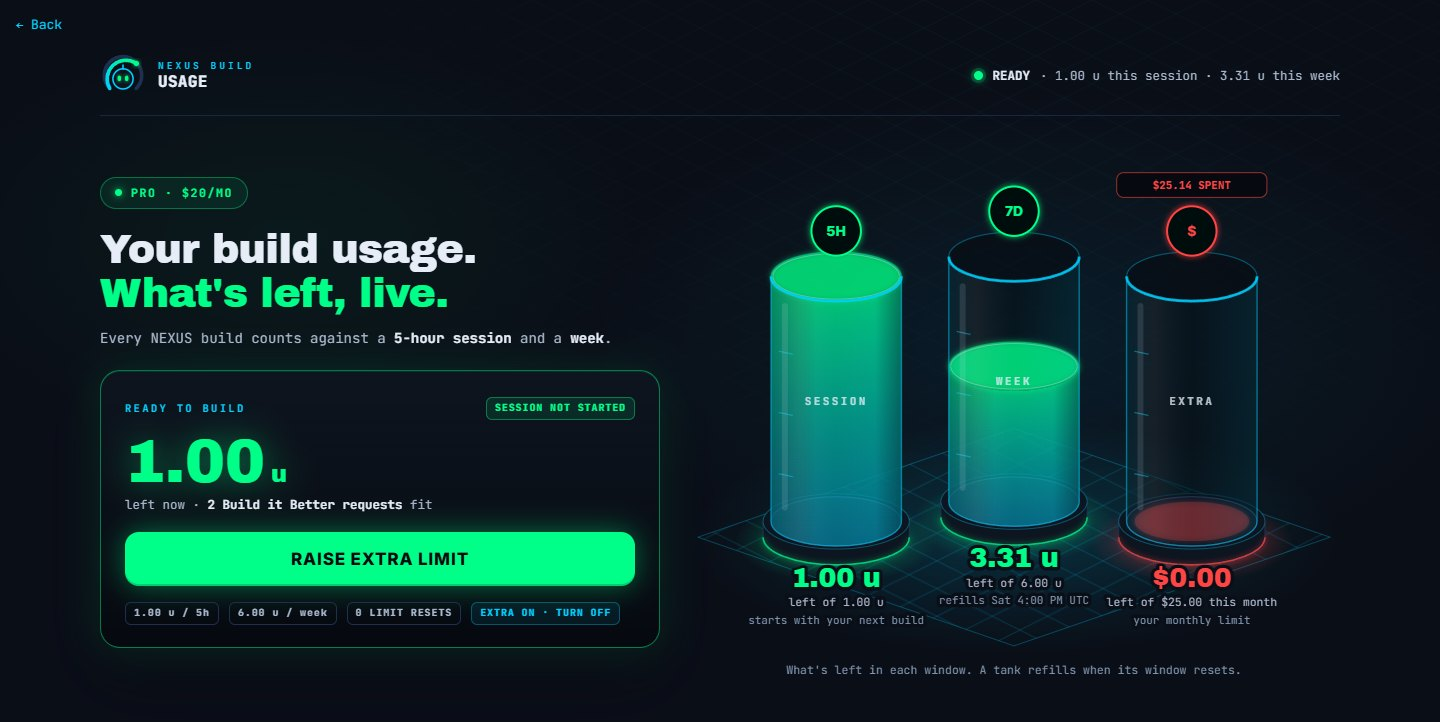
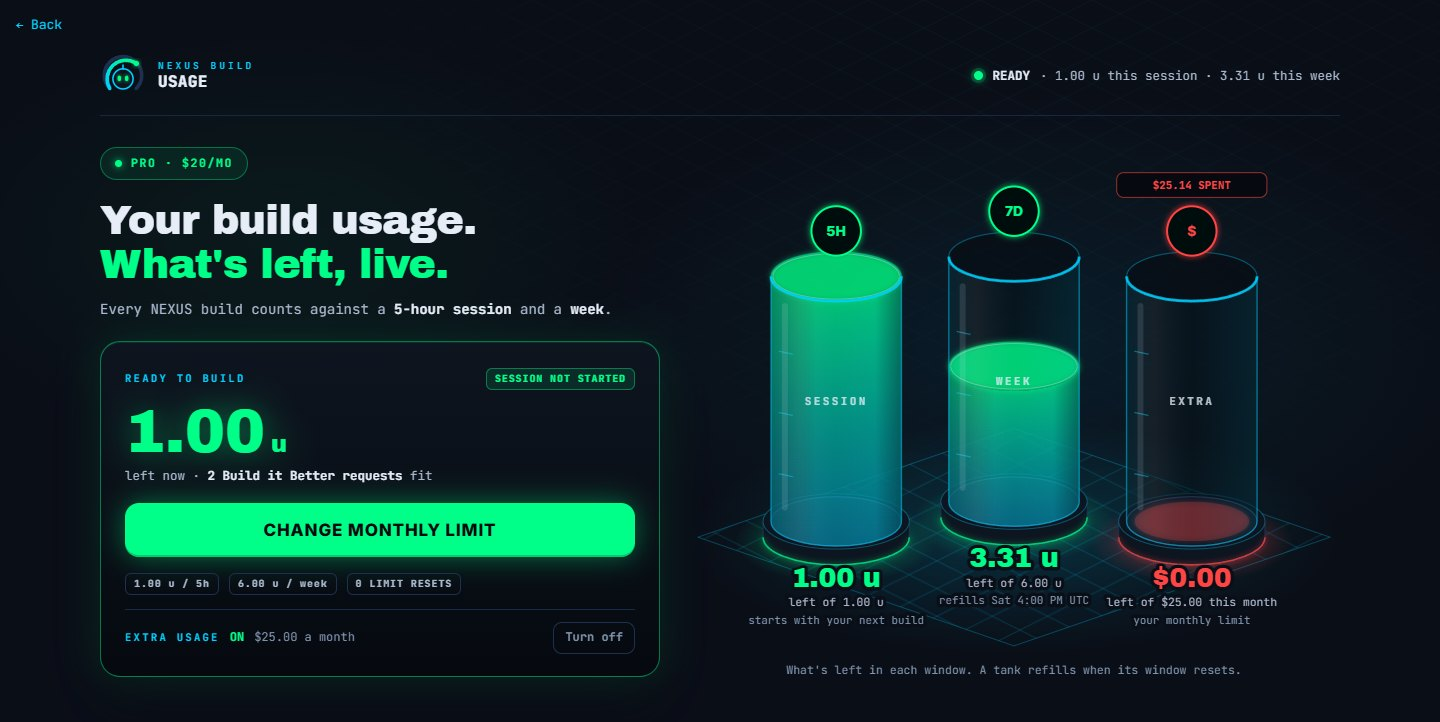
/usage mock takes in what Cymetica shipped on the live page on 2026-10-22 (checked in nexus-usage.js v20261022-2 and /usage/costs): Change monthly limit (the inline field, holding the current limit; the panel's button when the limit is reached, the extra-usage line's otherwise), the costs fold as /u
Effort: xhigh

Changed region(s): [[0.0625, 0.2133, 0.4688, 0.9141]]

diff --git a/outbox/usage-redesign/data.js b/outbox/usage-redesign/data.js
@@ -1,8 +1,11 @@
 /* What the pictures show, read 2026-10-22 from the live API -- nothing typed by hand.
    SNAP: GET /api/v1/nexus/usage (our account, X-API-Key), as_of below. DAY: the same with ?range=day (its breakdown only).
-   PUB: GET /api/v1/nexus/plans (public). DYN: GET /api/v1/nexus/dynamic (our account). COSTS: GET /api/v1/nexus/plans/costs. */
+   PUB: GET /api/v1/nexus/plans (public). DYN: GET /api/v1/nexus/dynamic (our account). COSTS: GET /api/v1/nexus/plans/costs (the same figures /usage/costs shows).
+   NOW: the fields /usage gained the same day (USDC balance; per plan the change and what it charges now),
+   from a second read of our account at its as_of. */
 window.SNAP = {"enabled":true,"plan":"pro","plan_name":"Pro","multiplier":"1","price_usdc":"20.00","session":{"active":true,"used_units":"2.185134","cap_units":"1.000000","used_pct":100,"started_at":"2026-10-22T02:51:54.892000+00:00","resets_at":"2026-10-22T07:51:54.892000+00:00","resets_in_s":7264,"resets_label":"7:51am UTC","hours":5},"week":{"used_units":"2.685134","cap_units":"6.000000","used_pct":45,"week_start":"2026-10-17T16:00:00+00:00","resets_at":"2026-10-24T16:00:00+00:00","resets_in_s":209349,"resets_label":"Sat 4:00pm UTC","anchor":{"dow":5,"minute":960}},"extra_usage":{"enabled":true,"month_spend_usdc":"25.14","monthly_cap_usdc":"25.00","markup":"3"},"limit_resets_available":0,"warn_pct":75,"critical_pct":90,"as_of":"2026-10-22T05:50:50.375932+00:00","breakdown":[{"kind":"company_turn","label":"Build a Company agent turns","units":"6.304075","pct":60},{"kind":"bb_request","label":"Build it Better requests","units":"4.000000","pct":38},{"kind":"bb_change","label":"Build it Better scope changes","units":"0.150000","pct":1},{"kind":"feature_bid","label":"Feature bids","units":"0.000000","pct":0}],"flags":[{"kind":"company_turn","label":"Build a Company agent turns","pct":60},{"kind":"bb_request","label":"Build it Better requests","pct":38}],"items":[{"kind":"company_turn","label":"Build a Company agent turns","units":"0.379142","at":"2026-10-22T03:03:52.294044+00:00","ref":"14:development:1792638134:d1008cc4b51c4cad","link":null,"overage":true},{"kind":"company_turn","label":"Build a Company agent turns","units":"1.060236","at":"2026-10-22T03:00:09.111490+00:00","ref":"14:testing:1792637800:6380bad10895404d","link":null,"overage":false},{"kind":"company_turn","label":"Build a Company agent turns","units":"0.596225","at":"2026-10-22T02:56:40.131665+00:00","ref":"14:testing:1792637672:06624a4767b44cd6","link":null,"overage":false},{"kind":"company_turn","label":"Build a Company agent turns","units":"0.149531","at":"2026-10-22T02:52:31.261827+00:00","ref":"14:manager:1792637514:7c60968585854f1b","link":null,"overage":false},{"kind":"bb_request","label":"Build it Better requests","units":"0.500000","at":"2026-10-21T22:01:11.224341+00:00","ref":"ET-32383","link":null,"overage":true},{"kind":"company_turn","label":"Build a Company agent turns","units":"0.147352","at":"2026-10-21T20:56:48.998060+00:00","ref":"14:manager:1792616184:a7b6b05c549a42b9","link":null,"overage":true},{"kind":"company_turn","label":"Build a Company agent turns","units":"0.769234","at":"2026-10-21T20:53:55.506584+00:00","ref":"14:testing:1792615838:fef14e5f3e9a479f","link":null,"overage":true},{"kind":"company_turn","label":"Build a Company agent turns","units":"0.156012","at":"2026-10-21T20:50:25.586057+00:00","ref":"14:manager:1792615789:20cd74f24d864bd6","link":null,"overage":true},{"kind":"company_turn","label":"Build a Company agent turns","units":"0.164502","at":"2026-10-21T20:48:55.900212+00:00","ref":"14:manager:1792615711:2d18c1f4d23b43d1","link":null,"overage":true},{"kind":"company_turn","label":"Build a Company agent turns","units":"0.423598","at":"2026-10-21T20:48:36.075910+00:00","ref":"14:testing:1792615620:217e6b83a68b43fc","link":null,"overage":true},{"kind":"company_turn","label":"Build a Company agent turns","units":"0.160003","at":"2026-10-21T20:45:15.826077+00:00","ref":"14:manager:1792615495:3b7773da86214a9d","link":null,"overage":true},{"kind":"company_turn","label":"Build a Company agent turns","units":"0.131782","at":"2026-10-21T20:43:29.201369+00:00","ref":"14:manager:1792615395:3ae917c4038f4f34","link":null,"overage":true},{"kind":"company_turn","label":"Build a Company agent turns","units":"0.474479","at":"2026-10-21T20:40:55.307797+00:00","ref":"14:testing_lab:1792615107:ce21dfc301a54511","link":null,"overage":true},{"kind":"company_turn","label":"Build a Company agent turns","units":"0.160457","at":"2026-10-21T20:40:54.142738+00:00","ref":"14:manager:1792615216:9edc6b951b844661","link":null,"overage":true},{"kind":"company_turn","label":"Build a Company agent turns","units":"0.132817","at":"2026-10-21T20:37:10.502444+00:00","ref":"14:manager:1792615016:37ce42ff71784380","link":null,"overage":true},{"kind":"company_turn","label":"Build a Company agent turns","units":"0.481207","at":"2026-10-21T20:35:56.214881+00:00","ref":"14:trading_desk:1792614812:3ad8527854f6427d","link":null,"overage":false},{"kind":"company_turn","label":"Build a Company agent turns","units":"0.180495","at":"2026-10-21T20:35:36.170831+00:00","ref":"14:manager:1792614904:82efb9fa4e284e57","link":null,"overage":false},{"kind":"company_turn","label":"Build a Company agent turns","units":"0.141542","at":"2026-10-21T20:33:29.684683+00:00","ref":"14:manager:1792614786:e604e1f5c0d74cc7","link":null,"overage":false},{"kind":"company_turn","label":"Build a Company agent turns","units":"0.137507","at":"2026-10-21T20:32:10.451989+00:00","ref":"14:manager:1792614709:56eca5cf064c4ded","link":null,"overage":false},{"kind":"company_turn","label":"Build a Company agent turns","units":"0.178693","at":"2026-10-21T18:55:33.978915+00:00","ref":"14:testing_lab:1792608797:f5294ecaa0664241","link":null,"overage":false},{"kind":"bb_request","label":"Build it Better requests","units":"0.500000","at":"2026-10-21T15:04:23.013663+00:00","ref":"ET-32333","link":null,"overage":false},{"kind":"bb_request","label":"Build it Better requests","units":"0.500000","at":"2026-10-21T12:01:47.699789+00:00","ref":"ET-32311","link":null,"overage":true},{"kind":"bb_change","label":"Build it Better scope changes","units":"0.150000","at":"2026-10-21T08:08:39.222792+00:00","ref":"ET-32262:20261021080839205587","link":null,"overage":false},{"kind":"bb_request","label":"Build it Better requests","units":"0.500000","at":"2026-10-21T08:07:02.591432+00:00","ref":"ET-32262","link":null,"overage":false},{"kind":"bb_request","label":"Build it Better requests","units":"0.500000","at":"2026-10-18T15:27:26.595055+00:00","ref":"ET-31953","link":null,"overage":false}],"history":[{"day":"2026-10-16","units":"0.500000"},{"day":"2026-10-17","units":"0.500000"},{"day":"2026-10-18","units":"1.000000"},{"day":"2026-10-19","units":"0.000000"},{"day":"2026-10-20","units":"0.000000"},{"day":"2026-10-21","units":"5.989680"},{"day":"2026-10-22","units":"2.185134"}],"plans":[{"code":"free","name":"Free","price_usdc":"0.00","multiplier":"0.2","session_units":"0.200000","week_units":"1.200000","session_hours":5,"features":["NEXUS builds within a small allowance every 5 hours and every week","Needs a paid plan (larger than the Free allowance): Build it Better requests, feature requests, startup applications","Tuatara Decide: 1 trained classifier, about 400,000 decisions a week"],"et10_offer":null},{"code":"pro","name":"Pro","price_usdc":"20.00","multiplier":"1","session_units":"1.000000","week_units":"6.000000","session_hours":5,"features":["Limited time: 2,000 ET10 with every monthly payment made by Oct 27, 2026","The Pro build allowance per 5-hour session and per week","Tuatara Decide: 3 trained classifiers, about 2,000,000 decisions a week","Extra usage: keep building past the limit at pay-as-you-go rates (opt-in, capped by you)","One saveable limit reset every week","Auto-renews monthly from your USDC balance; cancel anytime"],"et10_offer":{"et10_per_month":2000,"starts":"2026-09-27T00:00:00+00:00","ends":"2026-10-28T00:00:00+00:00","ends_label":"Oct 27, 2026"}},{"code":"max5","name":"Max 5x","price_usdc":"100.00","multiplier":"5","session_units":"5.000000","week_units":"30.000000","session_hours":5,"features":["Limited time: 10,000 ET10 with every monthly payment made by Oct 27, 2026","5x the Pro build allowance per 5-hour session and per week","Tuatara Decide: 15 trained classifiers, about 10,000,000 decisions a week","Extra usage: keep building past the limit at pay-as-you-go rates (opt-in, capped by you)","One saveable limit reset every week","Auto-renews monthly from your USDC balance; cancel anytime"],"et10_offer":{"et10_per_month":10000,"starts":"2026-09-27T00:00:00+00:00","ends":"2026-10-28T00:00:00+00:00","ends_label":"Oct 27, 2026"}},{"code":"max20","name":"Max 20x","price_usdc":"200.00","multiplier":"20","session_units":"20.000000","week_units":"120.000000","session_hours":5,"features":["Limited time: 20,000 ET10 with every monthly payment made by Oct 27, 2026","20x the Pro build allowance per 5-hour session and per week","Tuatara Decide: 60 trained classifiers, about 40,000,000 decisions a week","Extra usage: keep building past the limit at pay-as-you-go rates (opt-in, capped by you)","One saveable limit reset every week","Auto-renews monthly from your USDC balance; cancel anytime"],"et10_offer":{"et10_per_month":20000,"starts":"2026-09-27T00:00:00+00:00","ends":"2026-10-28T00:00:00+00:00","ends_label":"Oct 27, 2026"}}],"deep_answers":{"scope":"per_requester","hourly_limit":10,"used_this_hour":0,"remaining":10,"resets_in_s":550,"counted":"once per question (queued waits and retries are free)"}};
 window.DAY = {"as_of":"2026-10-22T05:51:43.876302+00:00","breakdown":[{"kind":"company_turn","label":"Build a Company agent turns","units":"6.024814","pct":74},{"kind":"bb_request","label":"Build it Better requests","units":"2.000000","pct":24},{"kind":"bb_change","label":"Build it Better scope changes","units":"0.150000","pct":2}]};
 window.PUB = {"enabled":true,"plans":[{"code":"free","name":"Free","price_usdc":"0.00","multiplier":"0.2","session_units":"0.200000","week_units":"1.200000","session_hours":5,"features":["NEXUS builds within a small allowance every 5 hours and every week","Needs a paid plan (larger than the Free allowance): Build it Better requests, feature requests, startup applications","Tuatara Decide: 1 trained classifier, about 400,000 decisions a week"],"et10_offer":null},{"code":"pro","name":"Pro","price_usdc":"20.00","multiplier":"1","session_units":"1.000000","week_units":"6.000000","session_hours":5,"features":["Limited time: 2,000 ET10 with every monthly payment made by Oct 27, 2026","The Pro build allowance per 5-hour session and per week","Tuatara Decide: 3 trained classifiers, about 2,000,000 decisions a week","Extra usage: keep building past the limit at pay-as-you-go rates (opt-in, capped by you)","One saveable limit reset every week","Auto-renews monthly from your USDC balance; cancel anytime"],"et10_offer":{"et10_per_month":2000,"starts":"2026-09-27T00:00:00+00:00","ends":"2026-10-28T00:00:00+00:00","ends_label":"Oct 27, 2026"}},{"code":"max5","name":"Max 5x","price_usdc":"100.00","multiplier":"5","session_units":"5.000000","week_units":"30.000000","session_hours":5,"features":["Limited time: 10,000 ET10 with every monthly payment made by Oct 27, 2026","5x the Pro build allowance per 5-hour session and per week","Tuatara Decide: 15 trained classifiers, about 10,000,000 decisions a week","Extra usage: keep building past the limit at pay-as-you-go rates (opt-in, capped by you)","One saveable limit reset every week","Auto-renews monthly from your USDC balance; cancel anytime"],"et10_offer":{"et10_per_month":10000,"starts":"2026-09-27T00:00:00+00:00","ends":"2026-10-28T00:00:00+00:00","ends_label":"Oct 27, 2026"}},{"code":"max20","name":"Max 20x","price_usdc":"200.00","multiplier":"20","session_units":"20.000000","week_units":"120.000000","session_hours":5,"features":["Limited time: 20,000 ET10 with every monthly payment made by Oct 27, 2026","20x the Pro build allowance per 5-hour session and per week","Tuatara Decide: 60 trained classifiers, about 40,000,000 decisions a week","Extra usage: keep building past the limit at pay-as-you-go rates (opt-in, capped by you)","One saveable limit reset every week","Auto-renews monthly from your USDC balance; cancel anytime"],"et10_offer":{"et10_per_month":20000,"starts":"2026-09-27T00:00:00+00:00","ends":"2026-10-28T00:00:00+00:00","ends_label":"Oct 27, 2026"}}],"session_hours":5,"week_days":7,"filing_costs":[{"kind":"bb_request","label":"Build it Better requests","units":"0.5","charged":"fixed, when the filing is accepted","fits_session":{"free":false,"pro":true,"max5":true,"max20":true}},{"kind":"bb_change","label":"Build it Better scope changes","units":"0.15","charged":"fixed, when the filing is accepted","fits_session":{"free":true,"pro":true,"max5":true,"max20":true}},{"kind":"feature_request","label":"Feature requests","units":"0.25","charged":"fixed, when the filing is accepted","fits_session":{"free":false,"pro":true,"max5":true,"max20":true}},{"kind":"feature_bid","label":"Feature bids","units":"0","charged":"fixed, when the filing is accepted","fits_session":{"free":true,"pro":true,"max5":true,"max20":true}},{"kind":"startup","label":"Startup applications","units":"0.5","charged":"fixed, when the filing is accepted","fits_session":{"free":false,"pro":true,"max5":true,"max20":true}},{"kind":"startup_bid","label":"Startup bids","units":"0","charged":"fixed, when the filing is accepted","fits_session":{"free":true,"pro":true,"max5":true,"max20":true}},{"kind":"creator_artifact","label":"Creator pages","units":"0.1","charged":"fixed, when the filing is accepted","fits_session":{"free":true,"pro":true,"max5":true,"max20":true}},{"kind":"clone_bot","label":"Bot clones","units":"0.1","charged":"fixed, when the filing is accepted","fits_session":{"free":true,"pro":true,"max5":true,"max20":true}},{"kind":"nexus_build_turn","label":"NEXUS build conversations","units":"0.05","charged":"measured compute (this is the estimate reserved before a turn)","fits_session":{"free":true,"pro":true,"max5":true,"max20":true}},{"kind":"company_turn","label":"Build a Company agent turns","units":"0.05","charged":"measured compute (this is the estimate reserved before a turn)","fits_session":{"free":true,"pro":true,"max5":true,"max20":true}}],"dynamic":{"code":"dynamic","name":"Dynamic","available":true,"price_usdc":null,"pricing":"measured cost + fee","fee_pct":"0.05","rails":["usdc","brrr","buy_brrr"],"min_brrr_buy_usd":"0.01","features":["Pay the measured compute cost of what you build and run, nothing more","Plus a 0.05% transaction fee","Prepaid credit sized from your own usage every 30 days; unused credit never expires","No 5-hour or weekly limits; set your own monthly spending limit","Pay in USDC, in BRRR, or buy BRRR with your USDC (5% off when you pay in BRRR)"]},"limit_rule":"A filing is accepted when its cost fits in what is left of BOTH the session and the weekly allowance. Otherwise it is refused with 429 USAGE_LIMIT (nothing charged) and resets_at says when the window reopens; a paid plan with extra usage on is charged for the overage instead, as long as that charge fits under your monthly extra-usage limit and your own USDC balance; otherwise the refusal names the limit that stopped it."};
 window.DYN = {"plan":{"code":"dynamic","name":"Dynamic","available":true,"price_usdc":null,"pricing":"measured cost + fee","fee_pct":"0.05","rails":["usdc","brrr","buy_brrr"],"min_brrr_buy_usd":"0.01","features":["Pay the measured compute cost of what you build and run, nothing more","Plus a 0.05% transaction fee","Prepaid credit sized from your own usage every 30 days; unused credit never expires","No 5-hour or weekly limits; set your own monthly spending limit","Pay in USDC, in BRRR, or buy BRRR with your USDC (5% off when you pay in BRRR)"]},"subscription":null,"forecast":{"cost_usd":"135.83","with_fee_usd":"135.90","basis":"your build usage over the last 30 days at measured cost"}};
 window.COSTS = {"window_days":30,"computed_at":"2026-10-22T04:40:00.790406+00:00","items":[{"kind":"company_turn","label":"Build a Company agent turn","runs":95,"mean_usd":"0.2750","p50_usd":"0.1876","p90_usd":"0.5254"},{"kind":"bb_build","label":"Build it Better build","runs":13,"mean_usd":"5.6500","p50_usd":"4.1487","p90_usd":"8.7840"},{"kind":"creator_page","label":"Creator page reply","runs":519,"mean_usd":"0.1785","p50_usd":"0.1337","p90_usd":"0.4247"},{"kind":"nexus_chat","label":"NEXUS chat answer","runs":8506,"mean_usd":"0.6728","p50_usd":"0.8282","p90_usd":"1.3874"}]};
+window.NOW = {"as_of":"2026-10-22T17:31:44.398409+00:00","usdc_balance":"60.26","period_end":"2026-10-26T16:38:49.363176+00:00","plans":[{"code":"free","change":"free","charge_now_usdc":"0.00","short_usdc":null},{"code":"pro","change":"current","charge_now_usdc":"0.00","short_usdc":"0.00"},{"code":"max5","change":"upgrade","charge_now_usdc":"10.67","short_usdc":"0.00"},{"code":"max20","change":"upgrade","charge_now_usdc":"24.00","short_usdc":"0.00"}]};

diff --git a/outbox/usage-redesign/mock.html b/outbox/usage-redesign/mock.html
@@ -199,12 +199,25 @@ h2{font:28px/1.2 "Archivo Black",sans-serif}
 .ct.h{color:var(--dim);font-size:10px;font-weight:700;letter-spacing:.16em}
 .ct span:not(:first-child){text-align:right}
 .ctw{margin-bottom:16px}
+.how .ctn{margin:10px 0 0;color:var(--dim);font-size:11.5px}
 
 .signin{padding:26px 24px 22px;margin-top:22px}
 .signin .go{width:100%;padding:17px;font-size:17px;margin-top:18px}
 .signin .free{display:flex;flex-wrap:wrap;gap:10px;margin-top:16px}
 .signin .edit{margin-top:12px}
 .signin .top{display:flex;justify-content:space-between;align-items:center;gap:12px}
+.xline{display:flex;align-items:center;gap:10px;margin-top:14px;padding-top:12px;border-top:1px solid rgba(30,48,80,.8);font-size:12px;color:var(--dim)}
+.xline b{color:var(--green);font-size:12px}
+.xline b.off{color:var(--dim)}
+.xline i{flex:1}
+.xline button{color:var(--cyan);font-size:12px;font-weight:700;border:1px solid rgba(0,207,255,.45);border-radius:9px;padding:6px 11px}
+.xline button.q{border-color:var(--line);color:var(--dim)}
+.bal{color:var(--dim);font-size:10.5px;font-weight:700;letter-spacing:.18em;border:1px solid rgba(30,48,80,.95);border-radius:12px;padding:9px 14px;background:rgba(13,21,32,.8)}
+.bal b{color:var(--green);font:18px "Archivo Black",sans-serif;letter-spacing:0;margin-left:8px}
+.pc .nw{color:var(--muted);font-size:11.5px;margin-top:6px;min-height:17px}
+.pc .nw b{color:var(--text)}
+.pc .nw em{font-style:normal;color:var(--red);font-weight:700}
+.pc .nw a{color:var(--cyan)}
 
 .ribbon{position:fixed;right:calc(16px + env(safe-area-inset-right,0px));top:calc(6px + env(safe-area-inset-top,0px));z-index:40;background:var(--panel);border:1px solid var(--line);border-radius:10px;padding:5px 10px;font-size:11.5px;color:var(--muted);display:flex;gap:8px;align-items:center}
 .ribbon b{color:var(--cyan);letter-spacing:.12em;font-size:10.5px}
@@ -374,7 +387,7 @@ function drawLeft(m) {
   }
   const go = resets > 0 ? `<button class="go" id="usereset">USE A LIMIT RESET</button>`
     : !m.xOn ? `<button class="go">TURN ON EXTRA USAGE</button>`
-    : xCapped ? `<button class="go" id="raise">RAISE EXTRA LIMIT</button>`
+    : xCapped ? `<button class="go" id="raise">CHANGE MONTHLY LIMIT</button>`
     : nextPlan ? `<button class="go">UPGRADE TO ${nextPlan.name.toUpperCase()}</button>` : "";
   el.innerHTML = `<div class="pills"><span class="pill"><i></i>${(S.plan_name || S.plan).toUpperCase()} &middot; ${usd0(S.price_usdc)}/MO</span></div>
     <h1>Your build usage.<br><em>What's left, live.</em></h1>
@@ -382,9 +395,13 @@ function drawLeft(m) {
     <div class="glass ${m.blocked ? "glowc" : "glow"} signin">${head}${go}
       <div class="edit" id="edit"><span>MONTHLY LIMIT $</span><input value="${m.xCap == null ? "" : m.xCap.toFixed(2)}" inputmode="decimal"><button>SAVE</button></div>
       <div class="edit" id="rs"><span>RESET WHICH?</span><i style="flex:1"></i><button>SESSION</button><button>WEEK</button></div>
-      <div class="free"><span class="chip m">${ua(m.sCap)} u / 5h</span><span class="chip m">${ua(m.wCap)} u / week</span><span class="chip m">${resets} LIMIT RESET${resets === 1 ? "" : "S"}</span><button class="chip c">EXTRA ${m.xOn ? "ON &middot; TURN OFF" : "OFF &middot; TURN ON"}</button></div>
+      <div class="free"><span class="chip m">${ua(m.sCap)} u / 5h</span><span class="chip m">${ua(m.wCap)} u / week</span><span class="chip m">${resets} LIMIT RESET${resets === 1 ? "" : "S"}</span></div>
+      <div class="xline"><span class="cap">EXTRA USAGE</span>${m.xOn
+        ? `<b>ON</b><span>${m.xCap == null ? "no monthly limit" : usd(m.xCap) + " a month"}</span><i></i>${xCapped ? "" : `<button id="chg">Change monthly limit</button>`}<button class="q">Turn off</button>`
+        : `<b class="off">OFF</b><span>you set the monthly limit when you turn it on</span><i></i><button>Turn on</button>`}</div>
     </div>`;
   const r = $("raise"); if (r) r.onclick = () => $("edit").classList.toggle("on");
+  const c = $("chg"); if (c) c.onclick = () => $("edit").classList.toggle("on");
   const u = $("usereset"); if (u) u.onclick = () => $("rs").classList.toggle("on");
 }
 
@@ -552,11 +569,18 @@ function drawPlans(m) {
       : `<div class="pb"><div class="t"><span>YOUR WEEK</span><em class="${wPct > 100 ? "r" : ""}">${u2(m.wUsed)} / ${ua(p.week_units)} u</em></div>
          <div class="gbar"><i class="${wPct > 100 ? "r" : ""}" style="width:${Math.min(100, Math.max(2, wPct))}%"></i></div></div>`;
     const feats = (p.features || []).filter(f => !/^Limited time/.test(f));
+    // what an upgrade takes from the balance now, and what to deposit when the balance is short (live since 2026-10-22)
+    const q = !out && window.NOW && NOW.plans.find(x => x.code === p.code);
+    const ends = NOW && NOW.period_end ? `${MON[new Date(NOW.period_end).getUTCMonth()]} ${new Date(NOW.period_end).getUTCDate()}` : "";
+    const nw = out ? ""
+      : q && q.change === "upgrade" && num(q.charge_now_usdc) > 0
+      ? `<div class="nw"><b>${usd(q.charge_now_usdc)} now</b> &middot; until ${ends}${num(q.short_usdc) > 0 ? `<br><em>deposit ${usd(q.short_usdc)} more</em> &middot; <a href="#">Deposit</a>` : ""}</div>`
+      : q && q.change === "current" && ends ? `<div class="nw">this period ends ${ends}</div>` : `<div class="nw"></div>`;
     const act = out ? (price ? `<button class="up">LOG IN TO SUBSCRIBE</button>` : `<button class="mv">START FREE</button>`)
       : on ? `<button class="cur">CURRENT PLAN</button>` : i > cur ? `<button class="up">UPGRADE &middot; ${usd0(price)}/MO</button>` : `<button class="mv">Move to ${p.name} at period end</button>`;
     cards += `<div class="glass pc ${on ? "glow" : ""}">
       <div class="h"><b>${p.name}</b><span class="mx">${p.multiplier}&times;</span>${on ? `<span class="chip s">YOURS</span>` : ""}</div>
-      <div class="pr">${price ? usd0(price) : "$0"}<small>/mo</small></div>
+      <div class="pr">${price ? usd0(price) : "$0"}<small>/mo</small></div>${nw}
       <div class="al">${ua(p.session_units)} u / ${p.session_hours}h &middot; ${ua(p.week_units)} u / week</div>
       ${bar}
       ${p.et10_offer ? `<div class="et10">+<b>${p.et10_offer.et10_per_month.toLocaleString("en-US")} ET10</b> every month paid by ${p.et10_offer.ends_label.replace(/, \d+$/, "")}</div>` : ""}
@@ -575,7 +599,7 @@ function drawPlans(m) {
       <details><summary>What's included &#9662;</summary><ul>${(dyn.features || []).map(f => `<li>${f}</li>`).join("")}</ul></details>
       <div class="act"><button class="dyn">${out ? "LOG IN TO SEE YOUR FORECAST" : "SWITCH TO DYNAMIC"}</button></div></div>`;
   }
-  el.innerHTML = `<div class="sechead"><div><h2>Plans</h2><p>${out ? "Paid plans add more every 5 hours and every week." : "Bars: your week so far, against each plan."}</p></div></div>
+  el.innerHTML = `<div class="sechead"><div><h2>Plans</h2><p>${out ? "Paid plans add more every 5 hours and every week." : "Bars: your week so far, against each plan."}</p></div>${!out && window.NOW && NOW.usdc_balance != null ? `<div class="bal">USDC BALANCE <b>${usd(NOW.usdc_balance)}</b></div>` : ""}</div>
     <div class="plans">${cards}</div>`;
 }
 
@@ -586,8 +610,10 @@ function drawHow() {
     "Usage is measured in units of compute: a build conversation turn adds what it cost; a filing adds a fixed weight.",
     "Paid plans can turn on extra usage to keep building past a window, paid from your own USDC up to a monthly limit you set, and get one saveable limit reset a week.",
     "Paying subscribers are served first: when NEXUS or agent-to-agent questions are waiting in a queue, Max 20x, Max 5x and Pro accounts run ahead of free accounts, in arrival order within each plan. A free question keeps its place and is never dropped for it."];
-  const ct = `<div class="ct h"><span>RUN</span><span>RUNS</span><span>MEAN</span><span>MEDIAN</span><span>P90</span></div>` +
-    CO.items.map(c => `<div class="ct"><span>${c.label}</span><span>${c.runs.toLocaleString("en-US")}</span><span>$${c.mean_usd}</span><span>$${c.p50_usd}</span><span>$${c.p90_usd}</span></div>`).join("");
+  // the table /usage/costs shows since 2026-10-22, in its columns and order, with its note and a way to the page
+  const ct = `<div class="ct h"><span>KIND OF RUN</span><span>TYPICAL (MEDIAN)</span><span>AVERAGE</span><span>HEAVY (P90)</span><span>RUNS MEASURED</span></div>` +
+    CO.items.map(c => `<div class="ct"><span>${c.label}</span><span>$${c.p50_usd}</span><span>$${c.mean_usd}</span><span>$${c.p90_usd}</span><span>${c.runs.toLocaleString("en-US")}</span></div>`).join("") +
+    `<p class="ctn">Measured ${CO.computed_at.slice(0, 10)}, in US dollars per run. A run that does more work costs more; a heavy run is one in the top tenth. <a href="/usage/costs">Open the full page &rarr;</a></p>`;
   $("how").innerHTML = (STATE === "out" ? "" : went()) +
     `<details><summary>How the windows work</summary><ul>${how.map(h => `<li>${h}</li>`).join("")}</ul></details>
     <details><summary>When a build is refused</summary><p>${P.limit_rule}</p></details>
